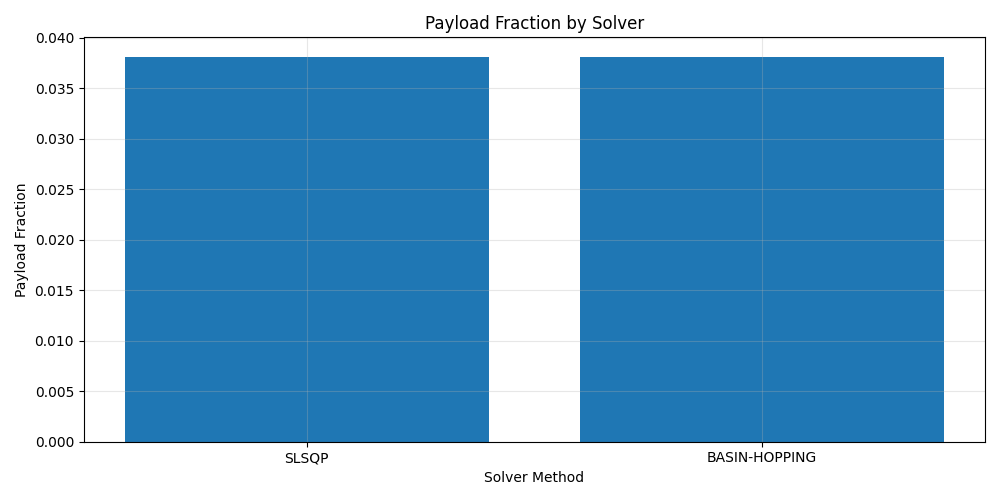
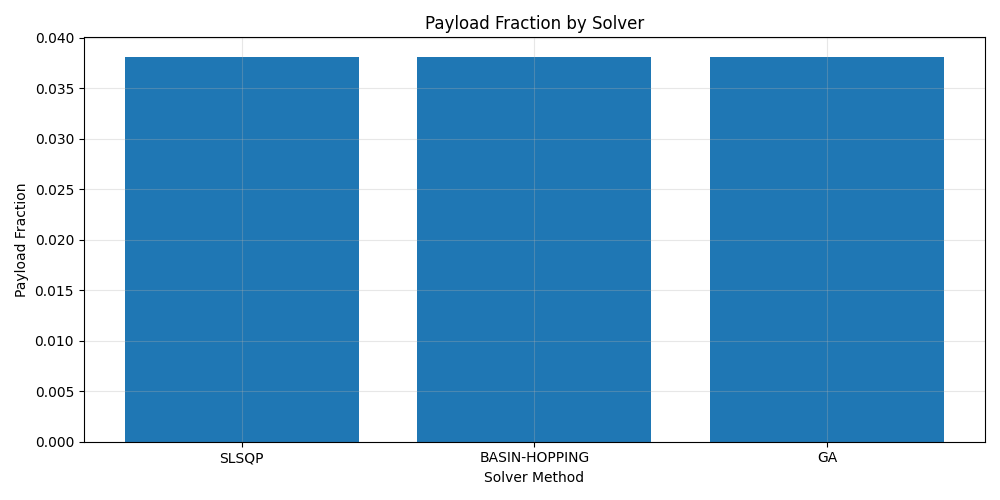
Added adaptive GA

diff --git a/Stage_Opt/payload_optimization.py b/Stage_Opt/payload_optimization.py
@@ -346,7 +346,9 @@ def solve_with_adaptive_ga(initial_guess, bounds, G0, ISP, EPSILON, TOTAL_DELTA_
                 # Use the payload fraction as the fitness (higher is better)
                 mass_ratios = calculate_mass_ratios(individual, self.ISP, self.EPSILON)
                 payload_fraction = calculate_payload_fraction(mass_ratios)
-                penalty = 0
+                
+                # Add penalty for constraint violations
+                penalty = 0.0
                 for i, dv in enumerate(individual):
                     if dv < self.bounds[i, 0] or dv > self.bounds[i, 1]:
                         penalty += 1000 * abs(dv - np.clip(dv, self.bounds[i, 0], self.bounds[i, 1]))
@@ -735,14 +737,47 @@ if __name__ == "__main__":
         input_file = sys.argv[1]
         stages = load_input_data(input_file)
         
-        # Run optimizations
-        methods = ['SLSQP', 'GA', 'BASIN-HOPPING']
+        # Run optimizations with all methods
+        methods = ['SLSQP', 'BASIN-HOPPING', 'GA', 'ADAPTIVE-GA']
         results = []
         
+        # Initial setup for optimization
+        n = len(stages)
+        initial_guess = np.full(n, TOTAL_DELTA_V / n)
+        max_dv = TOTAL_DELTA_V * 0.9
+        bounds = np.array([(0, max_dv) for _ in range(n)])
+        ISP = [float(stage['ISP']) for stage in stages]
+        EPSILON = [float(stage['EPSILON']) for stage in stages]
+        G0 = float(stages[0]['G0'])
+
         for method in methods:
             try:
-                result = optimize_stages(stages, method)
+                start_time = time.time()
+                
+                if method == 'GA':
+                    optimal_solution = solve_with_ga(initial_guess, bounds, G0, ISP, EPSILON, TOTAL_DELTA_V, CONFIG)
+                elif method == 'ADAPTIVE-GA':
+                    optimal_solution = solve_with_adaptive_ga(initial_guess, bounds, G0, ISP, EPSILON, TOTAL_DELTA_V, CONFIG)
+                else:
+                    result = optimize_stages(stages, method)
+                    results.append(result)
+                    continue
+                
+                # For GA methods, format results consistently with other methods
+                execution_time = time.time() - start_time
+                mass_ratios = calculate_mass_ratios(optimal_solution, ISP, EPSILON, G0)
+                payload_fraction = calculate_payload_fraction(mass_ratios)
+                
+                result = {
+                    'method': method,
+                    'time': execution_time,
+                    'dv': [float(x) for x in optimal_solution],
+                    'stage_ratios': [float(x) for x in mass_ratios],
+                    'payload_fraction': float(payload_fraction),
+                    'error': 0.0
+                }
                 results.append(result)
+                logger.info(f"Successfully completed {method} optimization")
             except Exception as e:
                 logger.error(f"Optimization with {method} failed: {e}")
                 continue
